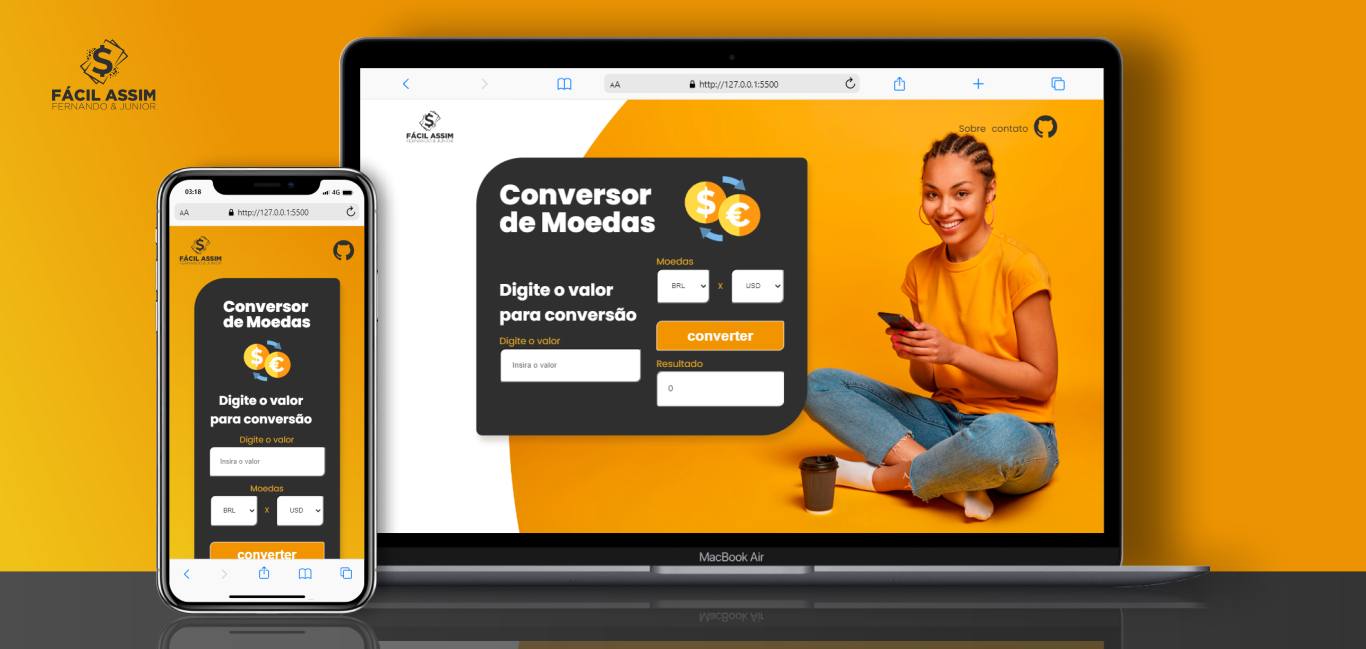
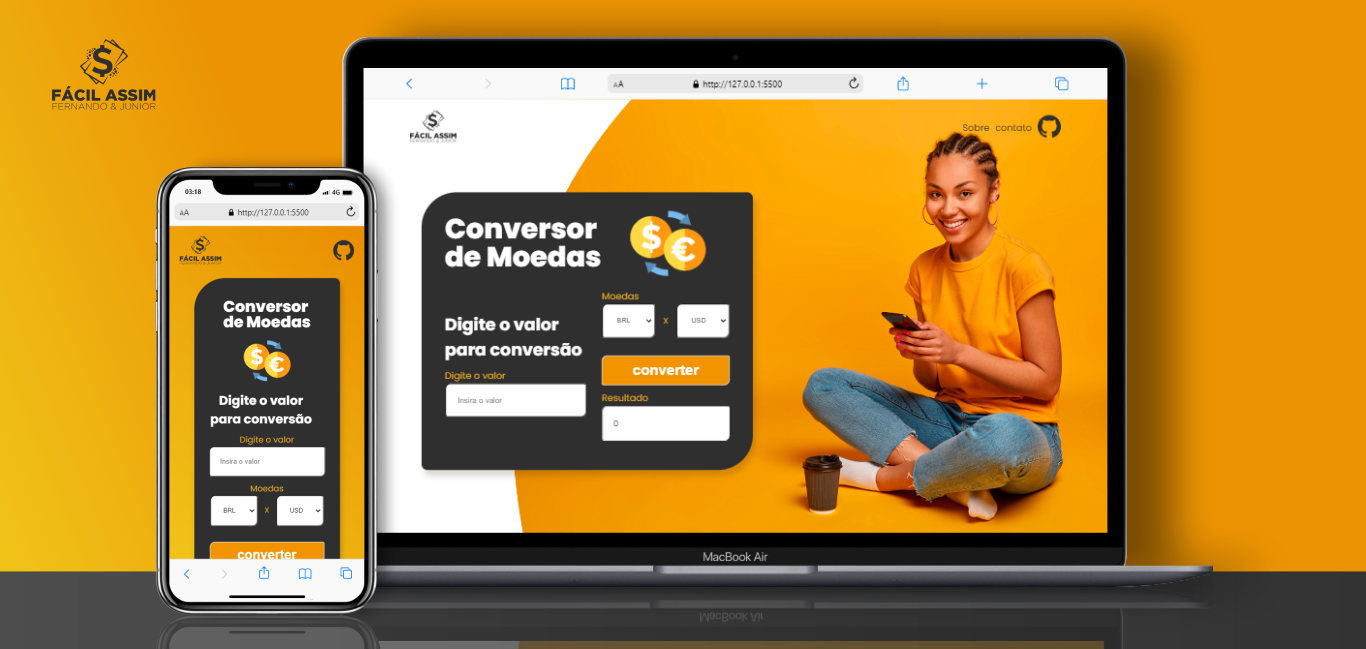
update

diff --git a/style.css b/style.css
@@ -44,21 +44,12 @@ header {
 
 main {
   background-color: #2f2f2f;
-  border-radius: 80px 10px 80px 10px;
+  border-radius: 60px 10px 60px 10px;
   padding: 10px;
   width: 550px;
   box-shadow: 5px 10px 10px rgba(73, 50, 20, 0.2);
   animation: go-right 1s infinite alternate;
 }
-
-/* @keyframes go-back {
-  from {
-    transform: translateX(100px);
-  }
-  to {
-    transform: translateX(0);
-  }
-} */
 
 /* -------------------------------BOX 1 */
 .container-titulo {

diff --git a/responsivo.css b/responsivo.css
@@ -1,8 +1,9 @@
 /* Responsivo para desktop full hd & widescreen */
 @media (max-width: 1599px ) {
     main {
-        margin-left:200px;
-        transition-duration: 3s;        
+        margin-left:130px;
+        transition-duration: 3s; 
+               
     }
 }
 
